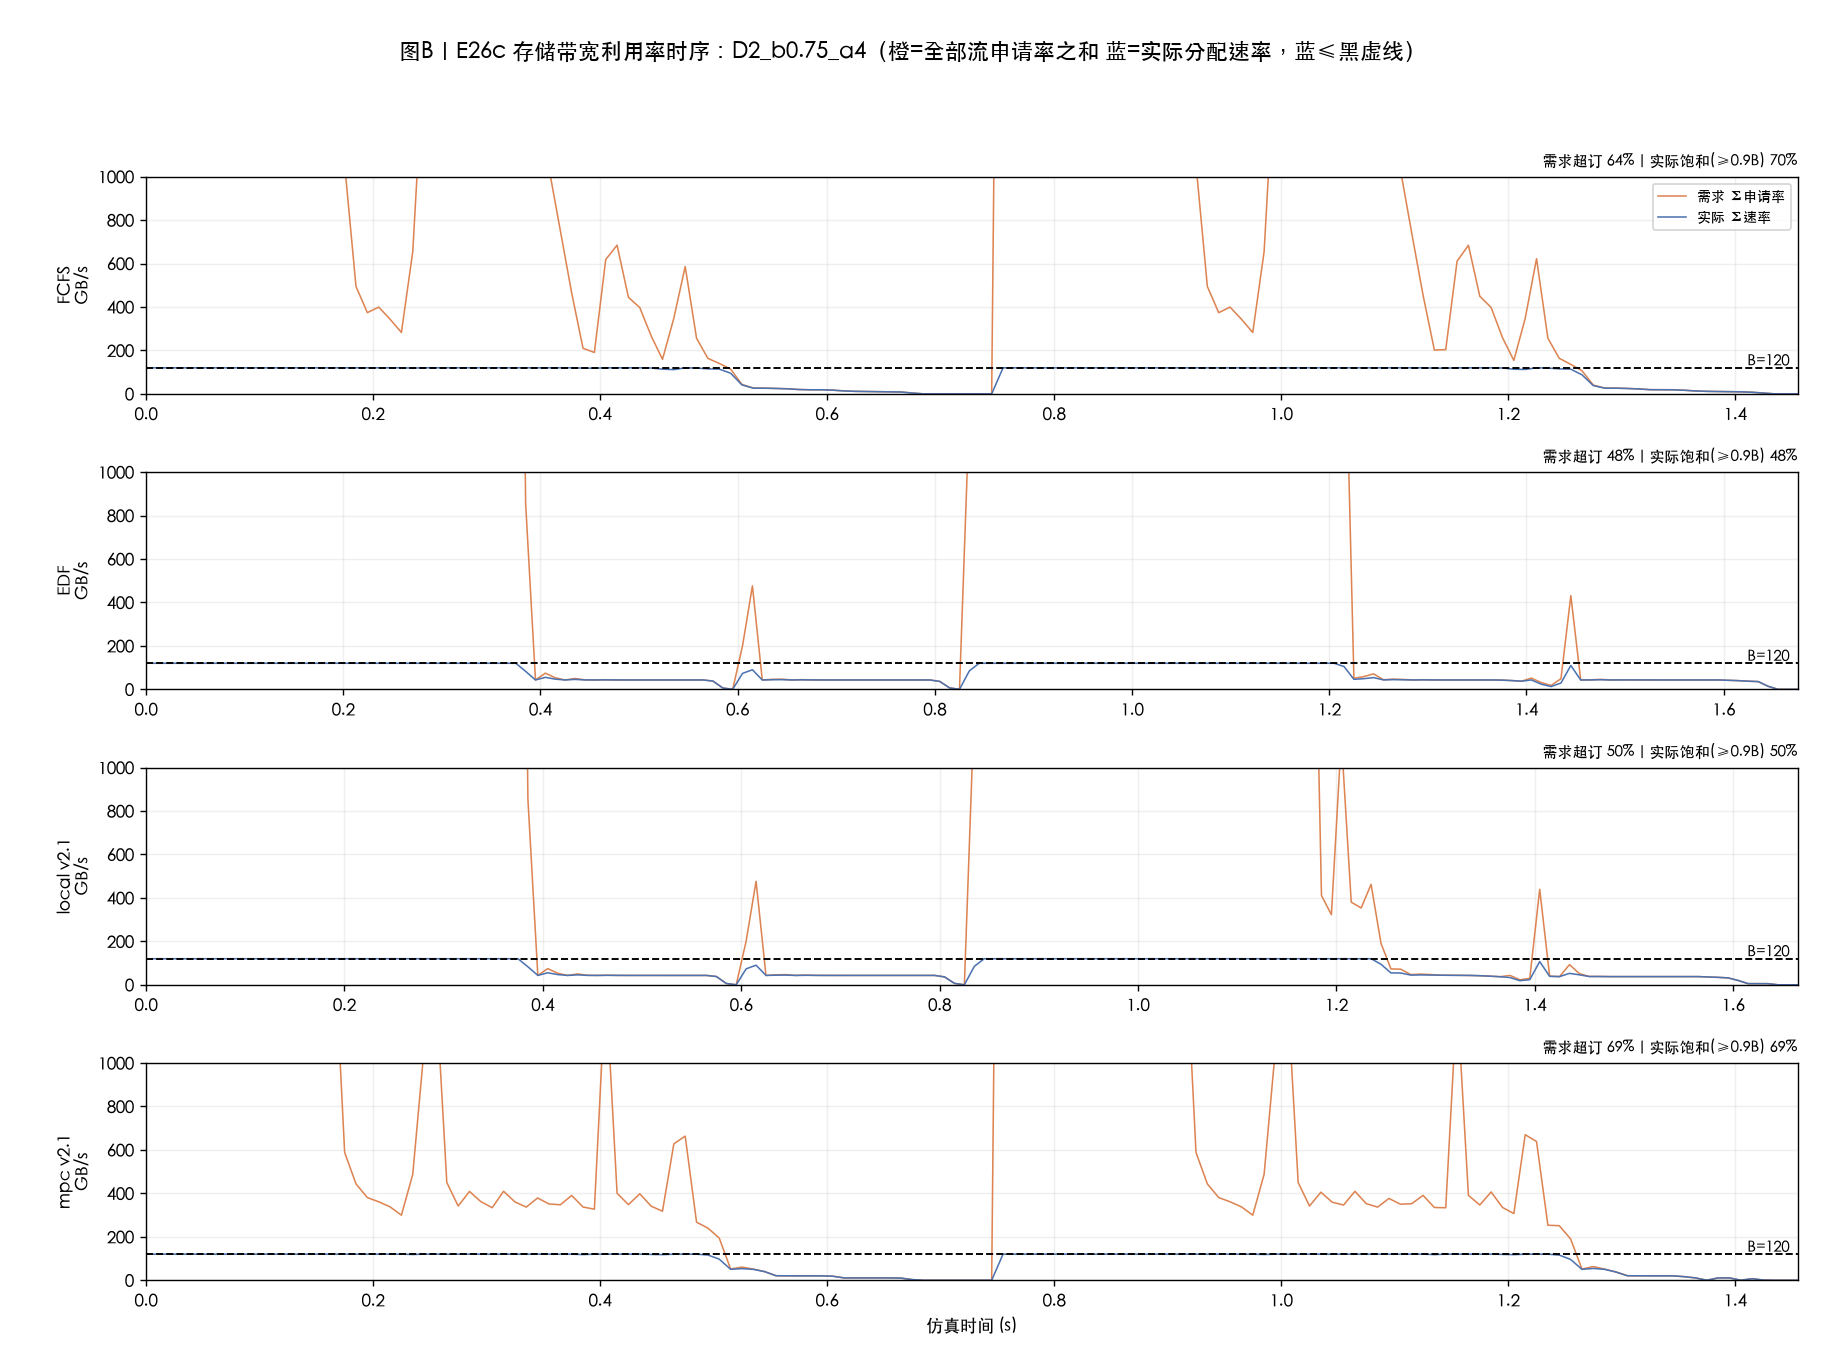
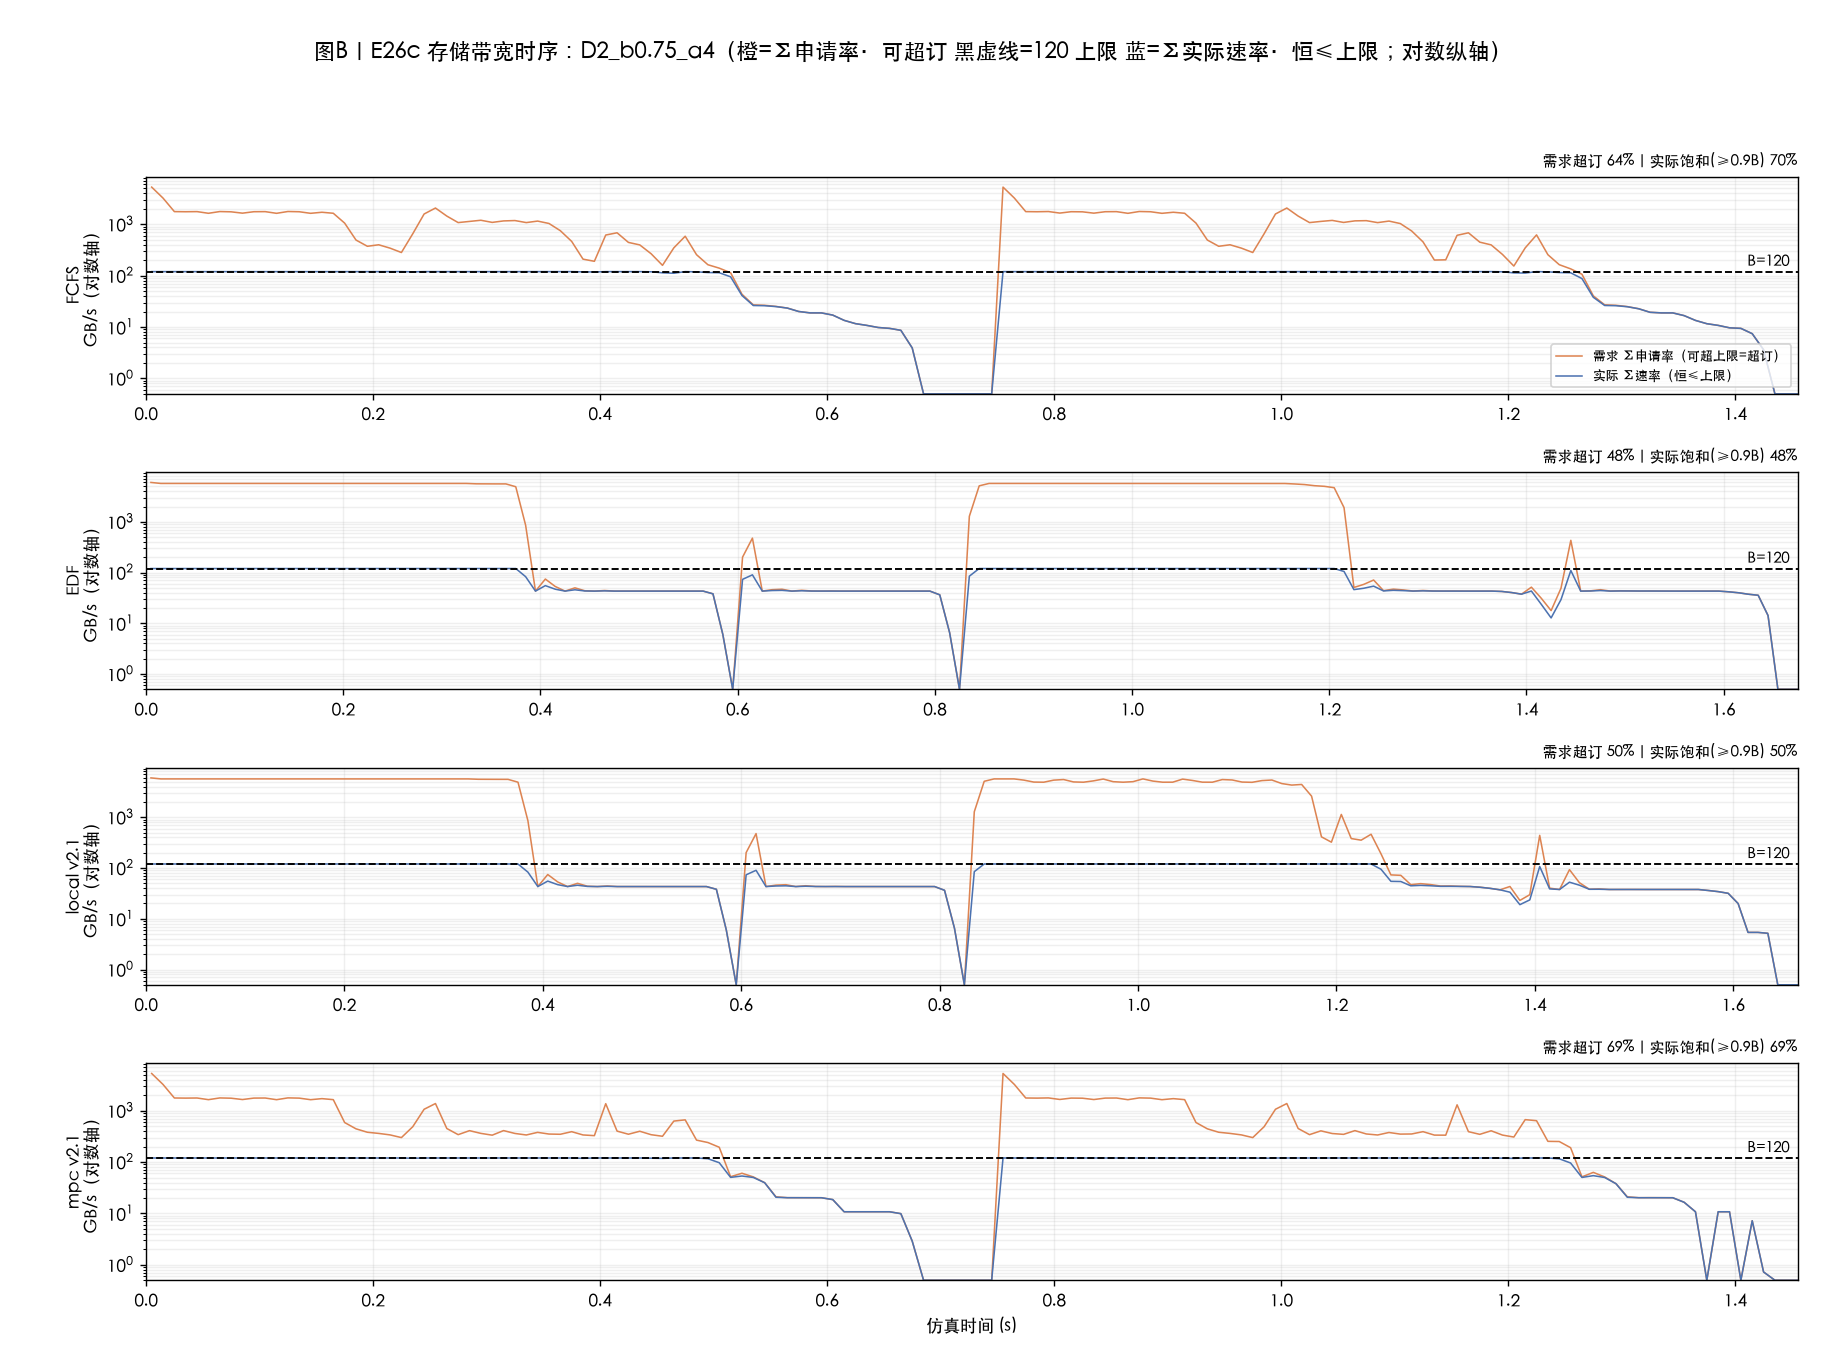
docs+tools: E26c 读者五问解答 + 带宽图对数轴重绘 + 文档更名 20261008
- 带宽图勘误（读者指出）：蓝线实际速率数据核验峰值恒=120 从未超限，
  超限的是橙线需求（峰 6400 GB/s，超订可视化意图但图例未标注）；
  原线性轴 ylim 截 1000 削平需求尖峰——16 张全部改对数纵轴重绘并
  图例标注'橙可超/蓝恒≤上限'；
- §1/§7 表补 TTFT 列（mpc 全部 8 格点 TTFT 最优或并列最优）；
- 新增 §8 五问解答：θ=S 与 BW 底座起始状态、dev≪tie 信用分配死区、
  dev=1~2=联合点整波替换（32 卡首波组合）而甘特形态主要来自底座、
  FCFS 并发 A=11 非 32（交错序天然轻度错峰，与 mpc 同族故图近）、
  local 雷同 EDF 机制（独享带宽评分把任何底座拉回洪水）；
- 文件名 20261001→20261008 更正。

diff --git a/tools/e26c_fig.py b/tools/e26c_fig.py
@@ -106,18 +106,25 @@ def build(cell: str, audit_only: bool):
             continue
         arr = np.load(p)["intervals"]
         xs, rate, dem = binned(arr, BIN_S)
-        ax.plot(xs, dem, color="#DD8452", lw=.9, label="需求 Σ申请率")
-        ax.plot(xs, rate, color="#4C72B0", lw=.9, label="实际 Σ速率")
+        # 对数纵轴：需求峰可达数千 GB/s、实际恒≤120——线性轴要么削峰要么压扁
+        # 下沿；log 轴两条线与 120 虚线全部可见（读者勘误 20261008：原线性
+        # 轴 ylim 截 1000 削平需求尖峰，且橙线超限形态易被误读为"利用率超限"）
+        dem_p = np.maximum(dem, 0.5)
+        rate_p = np.maximum(rate, 0.5)
+        ax.plot(xs, dem_p, color="#DD8452", lw=.9,
+                label="需求 Σ申请率（可超上限=超订）")
+        ax.plot(xs, rate_p, color="#4C72B0", lw=.9,
+                label="实际 Σ速率（恒≤上限）")
         ax.axhline(B_GBPS, color="k", ls="--", lw=1.1)
         t_hi = xs[-1]
-        ax.text(t_hi * 0.995, B_GBPS * 1.06, "B=120", ha="right", fontsize=8.5)
-        peak = max(dem.max(), rate.max(), B_GBPS)
-        ax.set_ylim(0, min(peak * 1.15, 1000))
+        ax.text(t_hi * 0.995, B_GBPS * 1.25, "B=120", ha="right", fontsize=8.5)
+        ax.set_yscale("log")
+        ax.set_ylim(0.5, max(dem_p.max(), 10.0) * 1.6)
         ax.set_xlim(0, t_hi)
-        ax.set_ylabel(f"{label}\nGB/s", fontsize=9.5)
-        ax.grid(alpha=.2)
+        ax.set_ylabel(f"{label}\nGB/s（对数轴）", fontsize=9.5)
+        ax.grid(alpha=.2, which="both")
         if ri == 0:
-            ax.legend(loc="upper right", fontsize=8)
+            ax.legend(loc="lower right", fontsize=7.5)
         if ri == 3:
             ax.set_xlabel("仿真时间 (s)", fontsize=10)
         w = arr[:, 1] - arr[:, 0]
@@ -125,8 +132,8 @@ def build(cell: str, audit_only: bool):
         sat = float(w[arr[:, 2] >= 0.9 * B_GBPS].sum() / w.sum())
         ax.set_title(f"需求超订 {over:.0%}｜实际饱和(≥0.9B) {sat:.0%}",
                      fontsize=8.5, loc="right")
-    fig.suptitle(f"图B｜E26c 存储带宽利用率时序：{cell}"
-                 "（橙=全部流申请率之和 蓝=实际分配速率，蓝≤黑虚线）",
+    fig.suptitle(f"图B｜E26c 存储带宽时序：{cell}"
+                 "（橙=Σ申请率·可超订 黑虚线=120 上限 蓝=Σ实际速率·恒≤上限；对数纵轴）",
                  fontsize=12.5, y=0.97)
     ov2 = audit_text_overlap(fig)
     if not audit_only:

diff --git a/实验结果-E26c-两轮质疑验证-20261008.md b/实验结果-E26c-两轮质疑验证-20261008.md
@@ -2,7 +2,7 @@
 
 | 项目 | 约定 |
 |---|---|
-| 日期 | 2026-10-01 |
+| 日期 | 2026-10-08（含 2026-10-08 当日 480 放大补测） |
 | 定位 | **干净终态文档**：只覆盖两轮读者质疑所驱动的实验与修复结果，4 臂（fcfs / edf / local_v2.1 / mpc_v2.1），每格点配甘特图+带宽时序图；历史过程（旧版 mpc、多臂消融、探针记录）见 `测试报告-E26b-MPC修正实施-20260930.md`，本文不再重复 |
 | 引擎版本 | mpc_v2.1 = M1 组合器（排序族{期限,到达}×配额{3,4,8,∞}）+ M2 GuardedEDF-BW 底座 + M3 观测；推演修复（批/流 id）已入主线 |
 | 规模 | **240 任务**（80A+160B；D2 两轮×96、D2c 两轮×120），用户指定 |
@@ -27,10 +27,12 @@
 
 | 格点 | FCFS | EDF | local v2.1 | **mpc v2.1** | mpc−local |
 |---|---|---|---|---|---|
-| D2_b1.0_a4（轻间歇突发） | 78.1（A34/B100） | 66.7（A0/B100） | 66.7（A0/B100；concA 25/32/32；dev2/tie1601） | **78.1（A34/B100；concA 4/11/11；dev2/tie1188）** | +9.3pp |
-| D2_b0.75_a4（两轮叠加） | 78.1（A34/B100） | 52.6（A0/B79） | 64.6（A0/B97；concA 25/32/32；dev25/tie1661） | **78.1（A34/B100；concA 4/11/11；dev2/tie1156）** | +13.5pp |
-| D1_r1.1_a4（连续过载） | 78.3（A35/B100） | 81.7（A45/B100） | 80.0（A40/B100；concA 6/14/16；dev46/tie2424） | **90.4（A71/B100；concA 4/8/11；dev43/tie2242）** | +10.4pp |
-| **D2c（饱和连续突发）** | 72.9（A21/B99） | **13.3**（A0/B20） | 15.0（A0/B22；concA 23/32/32；dev41/tie2087） | **74.2（A22/B100；concA 4/11/11；dev1/tie2341）** | **+59.2pp** |
+| D2_b1.0_a4（轻间歇突发） | 78.1（TTFT 0.400） | 66.7（0.602） | 66.7（0.602；concA 25/32/32；dev2/tie1601） | **78.1（TTFT 0.394；concA 4/11/11；dev2/tie1188）** | +9.3pp |
+| D2_b0.75_a4（两轮叠加） | 78.1（0.400） | 52.6（0.642） | 64.6（0.619；concA 25/32/32；dev25/tie1661） | **78.1（0.394；concA 4/11/11；dev2/tie1156）** | +13.5pp |
+| D1_r1.1_a4（连续过载） | 78.3（0.323） | 81.7（0.438） | 80.0（0.345；concA 6/14/16；dev46/tie2424） | **90.4（0.306；concA 4/8/11；dev43/tie2242）** | +10.4pp |
+| **D2c（饱和连续突发）** | 72.9（0.505） | **13.3**（0.881） | 15.0（0.834；concA 23/32/32；dev41/tie2087） | **74.2（0.492；concA 4/11/11；dev1/tie2341）** | **+59.2pp** |
+
+（TTFT=全体平均首 token 时间（秒），**mpc 在全部 8 个格点 TTFT 最优或并列最优**；A/B 类 TTFT 明细见 records。）
 
 读法：**EDF 与 local 的 A 类全灭**（A0%，并发 A 冲 23~32——洪水自残）；mpc_v2.1 与 FCFS 共享"并发 A≤11"的交错形态，且在 D1/D2c 上把 A 类救到 71%/22%、B 类 100%。D2c 上 EDF/local 彻底崩塌（13~15%）：饱和区里洪水让连 B 都进不来（B 仅 20~22%）。
 
@@ -66,7 +68,7 @@
 
 ![带宽-b1.0](docs/figures/cq_fig_e26c_bw_D2_b1.0_a4.png)
 
-**读法**：mpc 行蓝线**贴满 120 虚线**（实际饱和 59%）而橙线超订 59%——需求超但不溢出，管道被持续喂满；EDF/local 蓝线大段塌落（饱和 43%）：**需求最凶的策略反而最用不满带宽**（洪水期互拖、间歇期管道闲置）。
+**读法（对数纵轴）**：橙=Σ申请率（**允许超 120=超订可视化**，尖峰可达数千 GB/s）；黑虚线=120 上限；蓝=Σ实际速率（**物理恒≤120**，数据核验峰值=120.0）。mpc 行蓝线贴满 120 虚线（实际饱和 59%）——需求超但不溢出，管道被持续喂满；EDF/local 蓝线大段塌落（饱和 43%）：**需求最凶的策略反而最用不满带宽**。（20261008 勘误：原图线性轴截 1000 削平需求尖峰且未标注橙线可超限，已改对数轴重绘。）
 
 ### 3.2 D2_b0.75_a4
 
@@ -108,16 +110,16 @@
 
 ---
 
-## 7. 规模放大验证：480 任务（20261001 补测，用户指令"变大一些再补几组"）
+## 7. 规模放大验证：480 任务（20261008 补测，用户指令"变大一些再补几组"）
 
 总量 480（160A+320B）：D2=5 轮×96、D2c=4 轮×120（饱和）、D1 泊松队列加深。4 格点×4 臂共 16 run，总耗时 94 分钟（贴 90 分钟预算线）。
 
 | 480 规模 | FCFS | EDF | local v2.1 | **mpc v2.1** | mpc−local |
 |---|---|---|---|---|---|
-| D2_b1.0_a4 | 78.1（A34/B100） | 66.7（A0/B100） | 66.7（concA 0/32/32） | **78.1（A34/B100；concA 4/11/11）** | +11.4pp |
-| D2_b0.75_a4 | 78.1（A34/B100） | 51.5（A8/B73） | 68.3（concA 4/28/32；dev59） | **78.1（A34/B100；concA 4/11/11）** | +9.8pp |
-| D1_r1.1_a4 | 73.1（A19/B100） | 71.7（A68/B73） | 89.4（A68/B100） | **94.6（A84/B100；concA 4/7/12）** | +5.2pp |
-| D2c 饱和 | 63.8（A12/B90） | **6.7（A0/B10）** | 9.8（concA 4/32/32） | **65.6（A13/B92；concA 4/5/11；dev19）** | **+55.8pp** |
+| D2_b1.0_a4 | 78.1（TTFT 0.400） | 66.7（0.602） | 66.7（0.602；concA 0/32/32） | **78.1（0.394；concA 4/11/11）** | +11.4pp |
+| D2_b0.75_a4 | 78.1（0.400） | 51.5（0.658） | 68.3（0.565；concA 4/28/32；dev59） | **78.1（0.394；concA 4/11/11）** | +9.8pp |
+| D1_r1.1_a4 | 73.1（0.446） | 71.7（0.553） | 89.4（0.421） | **94.6（A84/B100；TTFT 0.404；concA 4/7/12）** | +5.2pp |
+| D2c 饱和 | 63.8（0.578） | **6.7**（1.258） | 9.8（0.932；concA 4/32/32） | **65.6（0.568；concA 4/5/11；dev19）** | **+55.8pp** |
 
 **规模效应三句话**：
 
@@ -144,3 +146,33 @@
 ### 7.2 与 240 的对照结论
 
 放大一倍后所有结论方向不变且更尖锐：错峰形态稳健（并发 A 恒 4/11/11 或更紧）、mpc ≥ 最强基线在全部 8 个（240+480）格点成立、mpc−local 差距 +5.2~+59.2pp 随负载/饱和度单调放大。3840 全规模验证仍为遗留（单 run 1.5~4h，超出本轮预算）。
+
+
+---
+
+## 8. 读者五问解答（20261008）
+
+### 8.1 mpc 用什么因子？起始状态怎么定？dev 远低于 tie、dev=1~2 意味着什么？为什么甘特差别那么大？
+
+- **因子 θ=S**：字典序（超时数, 总TTFT）——先比谁超时少，同数再比总等待。（θ=T 已实测不优于 θ=S，E26b §8.1。）
+- **起始状态**：v2.1 的基础动作来自 π=**GuardedEDF-BW**（期限序+重流并发上限 4），不是 EDF/FCFS——搜索在这个**已经错峰的底座**上做偏离；候选=组合器（期限/到达序×cap{3,4,8,∞}）+底座动作+前缀枚举，逐个推演排空打分，严格更好才换。
+- **dev≪tie**：tie=候选与基础动作**评分完全打平**的次数——稳态单 worker 决策点上换任何一条请求的边际影响≈0（推演里其余排队请求立刻补位，"信用分配死区"，E26b §9 探针实测四种动作评分逐位相同）；dev=最终真换了动作的决策数。打平≠没搜（每决策点评 ~10 个候选，n_scored 数千）。
+- **dev=1~2 的真实含义**：不是"只改一条请求"，而是**换了 1~2 个联合决策点的整波派单**——一个联合动作一次覆盖全部 32 个空闲 NPU 的首波组合（如"32A 洪水"→"4A+28B"），后续整条轨迹从此分岔。且甘特主要形态来自**底座本身**（E26b 消融：仅底座、dev=0 时 IO 等已 36%→~10%、SLO 75.0%）——联合点的 1~2 次替换决定"洪水还是错峰"，底座维持错峰。
+- **TTFT 之前漏列，已补**（§1/§7 表）：mpc 在全部 8 个格点 TTFT 最优或并列最优（如 D2c 0.492 vs FCFS 0.505、EDF 0.881）。
+
+### 8.2 FCFS 为什么这么好？ABB 顺序下一批同时跑的 A 不应该很多吗？为什么图上 FCFS 和 mpc 接近？
+
+**前提修正：FCFS 的并发 A 并不多——max=11，不是 32。**交错到达序 (A,B,B)×n 使第一波 32 条里只有 ~11 条 A（表内 concA 4/**11**/11）；把 A 全堆同刻的是 **EDF**（期限排序 → concA 25~32）。11 条 A 需求 321>120，超订但可忍（每条分 ~11 GB/s，层读 16ms vs 算 6ms，IO 等 9~11%）；EDF 的 32 条每条只分 3.75 GB/s、层读 47ms（等:算≈8:1，红海）。所以 FCFS 天然是"轻度错峰"、mpc 是"精确错峰"（4 条=甜点，IO 等 8%）——**同属并发受限家族，图上接近正因如此**；差距在 A 类救活率（480 D1：FCFS 19% vs mpc 84%）、IO 等（9.8% vs 8.2%）、TTFT（0.400 vs 0.394）。D2 短期限下排队 A 基本注定超时，两者 SLO 同为 78.1%。
+
+### 8.3 local 和 EDF 为什么这么差且雷同？为什么全是 A 优先？
+
+- **EDF 全 A 优先的机制**：deadline=到达+α×T0，而 T0_A=49.6ms=0.217×T0_B → **A 期限恒更早** → 期限排序=A 优先 → 突发点 32 条 A 同刻全派 → 互拖全灭（A-SLO 0%），饱和区连 B 都堵死（D2c B 仅 10~20%）。
+- **local 雷同 EDF 的机制**：local 与 mpc 用**同一个 BW 底座**（起始状态相同），差别只在评分的想象世界——local 假设每条流独享带宽，"32 条 A 洪水"在其想象里人人全速、零代价，于是联合点评分时它**主动偏离好底座、选回洪水**（concA 冲回 23~32；dev=2~59 就是这些"往洪水方向"的偏离）。**local 之差不在底座而在"眼镜"——带宽盲视的评分会把任何底座拉回洪水**；这是 mpc−local 差距 +9~+59pp 的全部来源（唯一变量=推演是否建模共享带宽）。
+
+### 8.4 带宽图"利用率超上限"与纵轴截断（已修复）
+
+数据核验：**蓝线（实际 Σ速率）峰值恒=120.0，从未超限**（区间级+分箱级双向验证）；超上限的是**橙线=需求 Σ申请率**（峰可达 6400 GB/s≈53×容量）——"需求可超、实际被封顶"是超订可视化的意图，但原图例未标注、线性纵轴截断 1000 削平了需求尖峰（显示不全属实）。已修复：16 张带宽图改**对数纵轴**重绘（需求尖峰/120 虚线/蓝线同时可见），图例标注"橙=可超上限（超订）、蓝=恒≤上限"。
+
+### 8.5 文件日期（已修复）
+
+原误标 20261001（实际创建/补测日 20261008），已重命名并同步内部日期。
